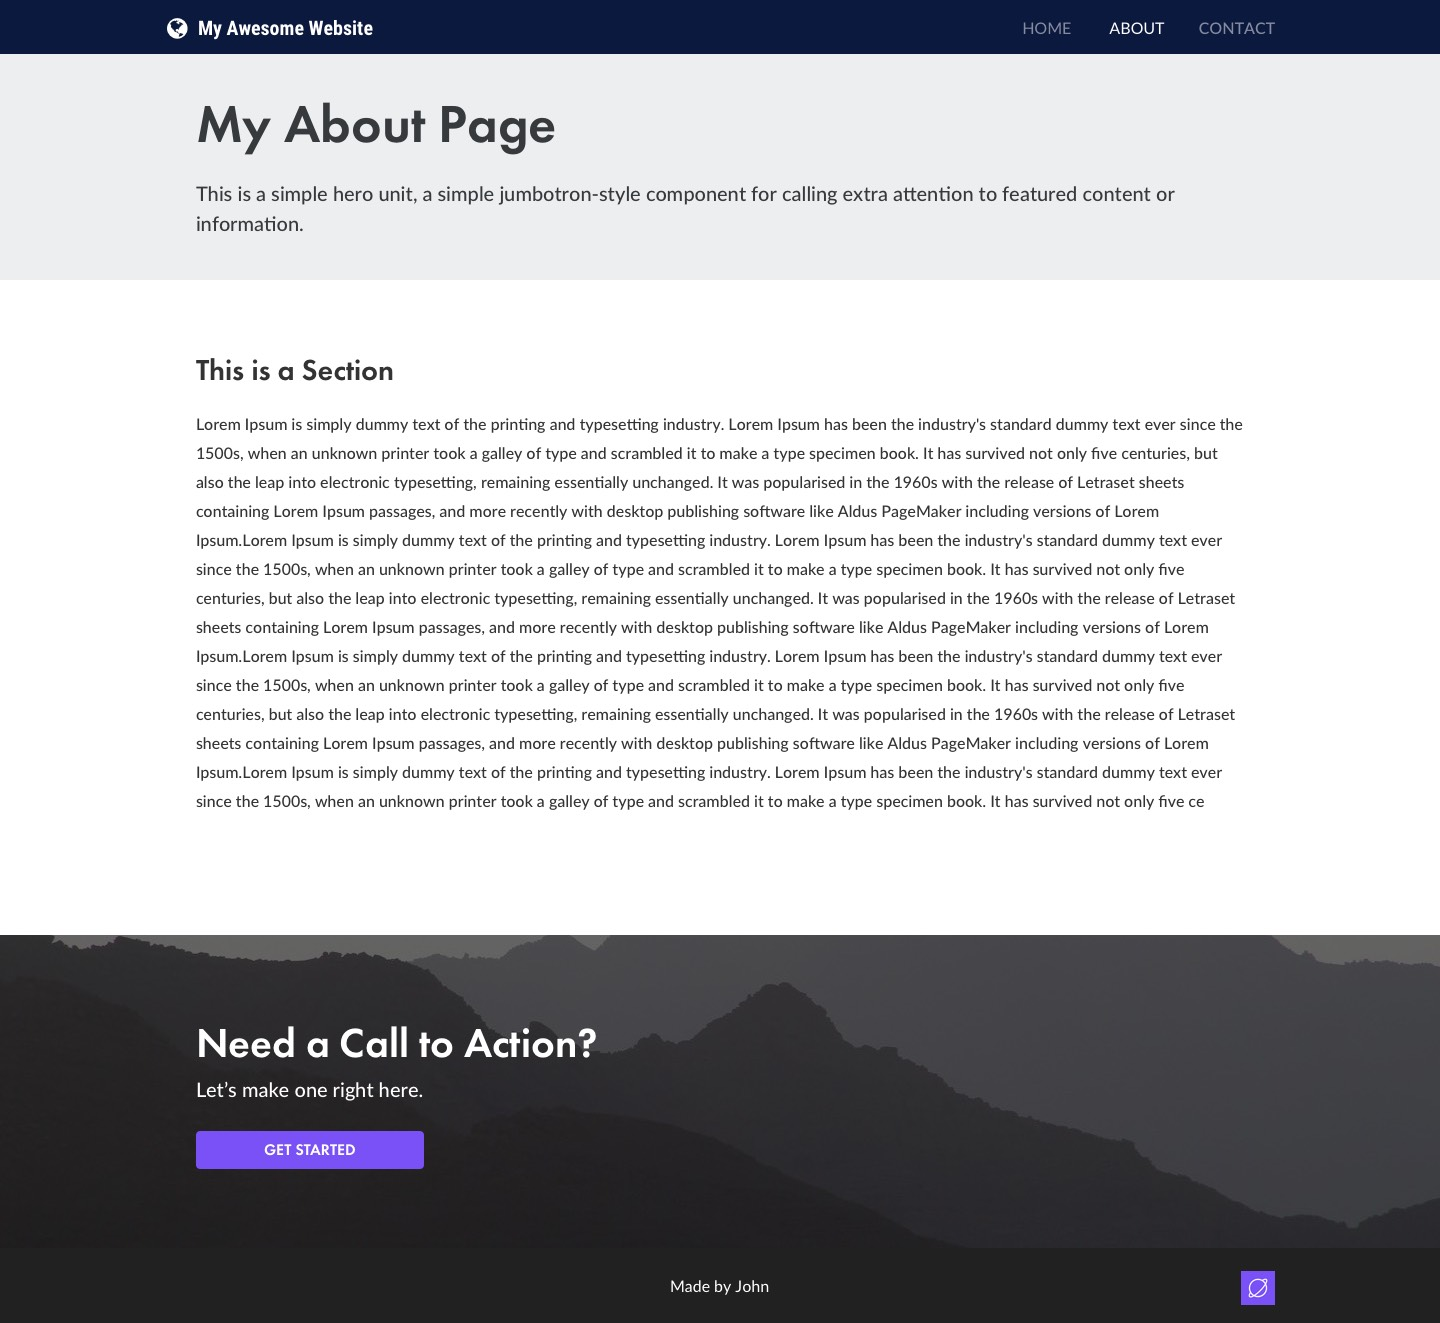
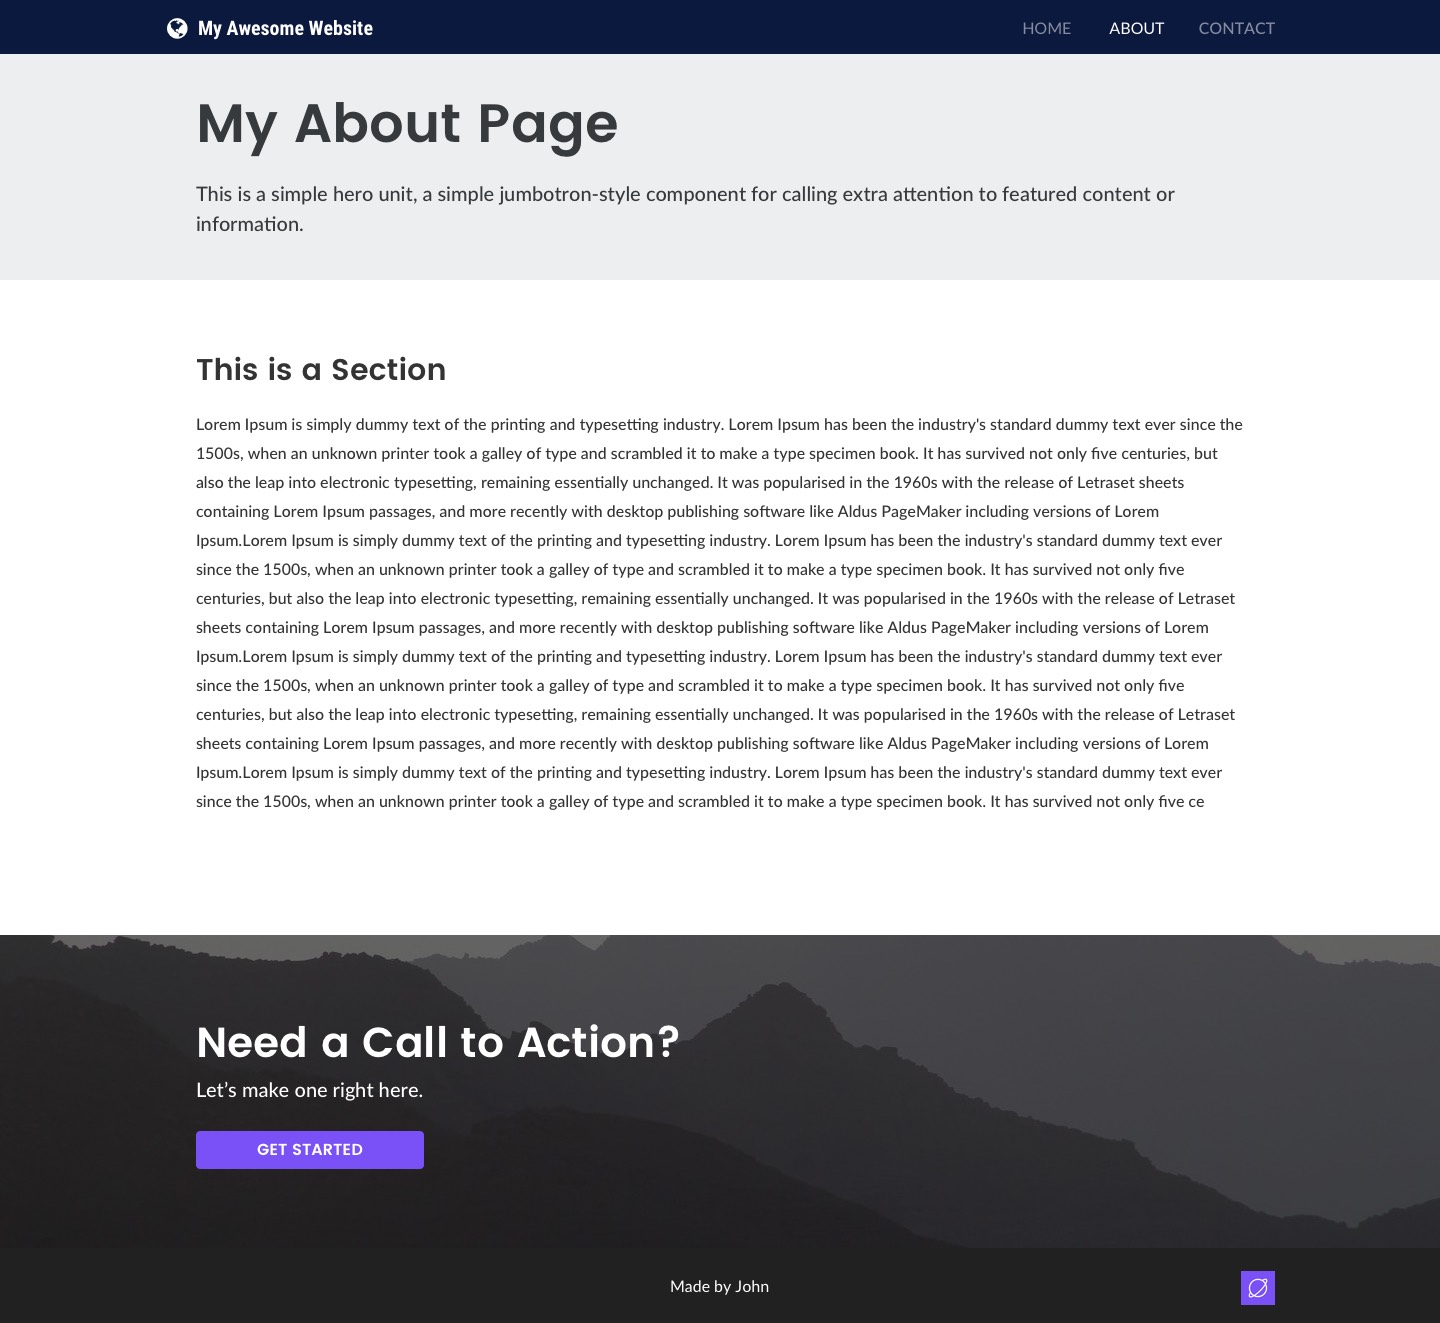
more project scaffolding

diff --git a/index.html b/index.html
@@ -1,0 +1,32 @@
+<!doctype html>
+<html lang="en">
+<head>
+    <meta charset="UTF-8">
+    <meta name="viewport" content="width=device-width, user-scalable=no, initial-scale=1.0, maximum-scale=1.0, minimum-scale=1.0">
+    <meta http-equiv="X-UA-Compatible" content="ie=edge">
+    <title>My Awesome Website || Home</title>
+    <!-- RESOURCES & STYLESHEETS -->
+    <!-- Google Fonts -->
+    <link href="https://fonts.googleapis.com/css?family=Lato:400,700|Poppins:500,800" rel="stylesheet">
+    <!-- FontAwesome CDN -->
+    <link rel="stylesheet" href="https://use.fontawesome.com/releases/v5.1.0/css/all.css" integrity="sha384-lKuwvrZot6UHsBSfcMvOkWwlCMgc0TaWr+30HWe3a4ltaBwTZhyTEggF5tJv8tbt" crossorigin="anonymous">
+    <!-- Bootstrap CDN -->
+    <link href="https://stackpath.bootstrapcdn.com/bootstrap/4.1.1/css/bootstrap.min.css" rel="stylesheet" integrity="sha384-WskhaSGFgHYWDcbwN70/dfYBj47jz9qbsMId/iRN3ewGhXQFZCSftd1LZCfmhktB" crossorigin="anonymous">
+    <!-- Theme (overrides) -->
+    <link type="text/css" rel="stylesheet" href="./styles/theme.css"/>
+</head>
+<body>
+    <h1>HOME</h1>
+    <ul>
+        <li><a href="#">HOME</a></li>
+        <li><a href="./pages/about.html">ABOUT</a></li>
+        <li><a href="./pages/contact.html">CONTACT</a></li>
+    </ul>
+
+    <!-- SCRIPTS -->
+    <!-- Bootstrap -->
+    <script src="https://stackpath.bootstrapcdn.com/bootstrap/4.1.1/js/bootstrap.min.js"></script>
+    <!-- Main JS -->
+    <script src="./scripts/main.js"></script>
+</body>
+</html>

diff --git a/pages/about.html b/pages/about.html
@@ -1,0 +1,32 @@
+<!doctype html>
+<html lang="en">
+<head>
+    <meta charset="UTF-8">
+    <meta name="viewport" content="width=device-width, user-scalable=no, initial-scale=1.0, maximum-scale=1.0, minimum-scale=1.0">
+    <meta http-equiv="X-UA-Compatible" content="ie=edge">
+    <title>My Awesome Website || Home</title>
+    <!-- RESOURCES & STYLESHEETS -->
+    <!-- Google Fonts -->
+    <link href="https://fonts.googleapis.com/css?family=Lato:400,700|Poppins:500,800" rel="stylesheet">
+    <!-- FontAwesome CDN -->
+    <link rel="stylesheet" href="https://use.fontawesome.com/releases/v5.1.0/css/all.css" integrity="sha384-lKuwvrZot6UHsBSfcMvOkWwlCMgc0TaWr+30HWe3a4ltaBwTZhyTEggF5tJv8tbt" crossorigin="anonymous">
+    <!-- Bootstrap CDN -->
+    <link href="https://stackpath.bootstrapcdn.com/bootstrap/4.1.1/css/bootstrap.min.css" rel="stylesheet" integrity="sha384-WskhaSGFgHYWDcbwN70/dfYBj47jz9qbsMId/iRN3ewGhXQFZCSftd1LZCfmhktB" crossorigin="anonymous">
+    <!-- Theme (overrides) -->
+    <link type="text/css" rel="stylesheet" href="./styles/theme.css"/>
+</head>
+<body>
+    <h1>ABOUT</h1>
+    <ul>
+        <li><a href="../index.html">HOME</a></li>
+        <li><a href="#">ABOUT</a></li>
+        <li><a href="./contact.html">CONTACT</a></li>
+    </ul>
+
+    <!-- SCRIPTS -->
+    <!-- Bootstrap -->
+    <script src="https://stackpath.bootstrapcdn.com/bootstrap/4.1.1/js/bootstrap.min.js"></script>
+    <!-- Main JS -->
+    <script src="../scripts/main.js"></script>
+</body>
+</html>

diff --git a/pages/contact.html b/pages/contact.html
@@ -1,0 +1,32 @@
+<!doctype html>
+<html lang="en">
+<head>
+    <meta charset="UTF-8">
+    <meta name="viewport" content="width=device-width, user-scalable=no, initial-scale=1.0, maximum-scale=1.0, minimum-scale=1.0">
+    <meta http-equiv="X-UA-Compatible" content="ie=edge">
+    <title>My Awesome Website || Home</title>
+    <!-- RESOURCES & STYLESHEETS -->
+    <!-- Google Fonts -->
+    <link href="https://fonts.googleapis.com/css?family=Lato:400,700|Poppins:500,800" rel="stylesheet">
+    <!-- FontAwesome CDN -->
+    <link rel="stylesheet" href="https://use.fontawesome.com/releases/v5.1.0/css/all.css" integrity="sha384-lKuwvrZot6UHsBSfcMvOkWwlCMgc0TaWr+30HWe3a4ltaBwTZhyTEggF5tJv8tbt" crossorigin="anonymous">
+    <!-- Bootstrap CDN -->
+    <link href="https://stackpath.bootstrapcdn.com/bootstrap/4.1.1/css/bootstrap.min.css" rel="stylesheet" integrity="sha384-WskhaSGFgHYWDcbwN70/dfYBj47jz9qbsMId/iRN3ewGhXQFZCSftd1LZCfmhktB" crossorigin="anonymous">
+    <!-- Theme (overrides) -->
+    <link type="text/css" rel="stylesheet" href="./styles/theme.css"/>
+</head>
+<body>
+    <h1>CONTACT</h1>
+    <ul>
+        <li><a href="../index.html">HOME</a></li>
+        <li><a href="./about.html">ABOUT</a></li>
+        <li><a href="#">CONTACT</a></li>
+    </ul>
+
+    <!-- SCRIPTS -->
+    <!-- Bootstrap -->
+    <script src="https://stackpath.bootstrapcdn.com/bootstrap/4.1.1/js/bootstrap.min.js"></script>
+    <!-- Main JS -->
+    <script src="../scripts/main.js"></script>
+</body>
+</html>

diff --git a/scripts/main.js b/scripts/main.js
@@ -1,0 +1,1 @@
+console.log('hello')
